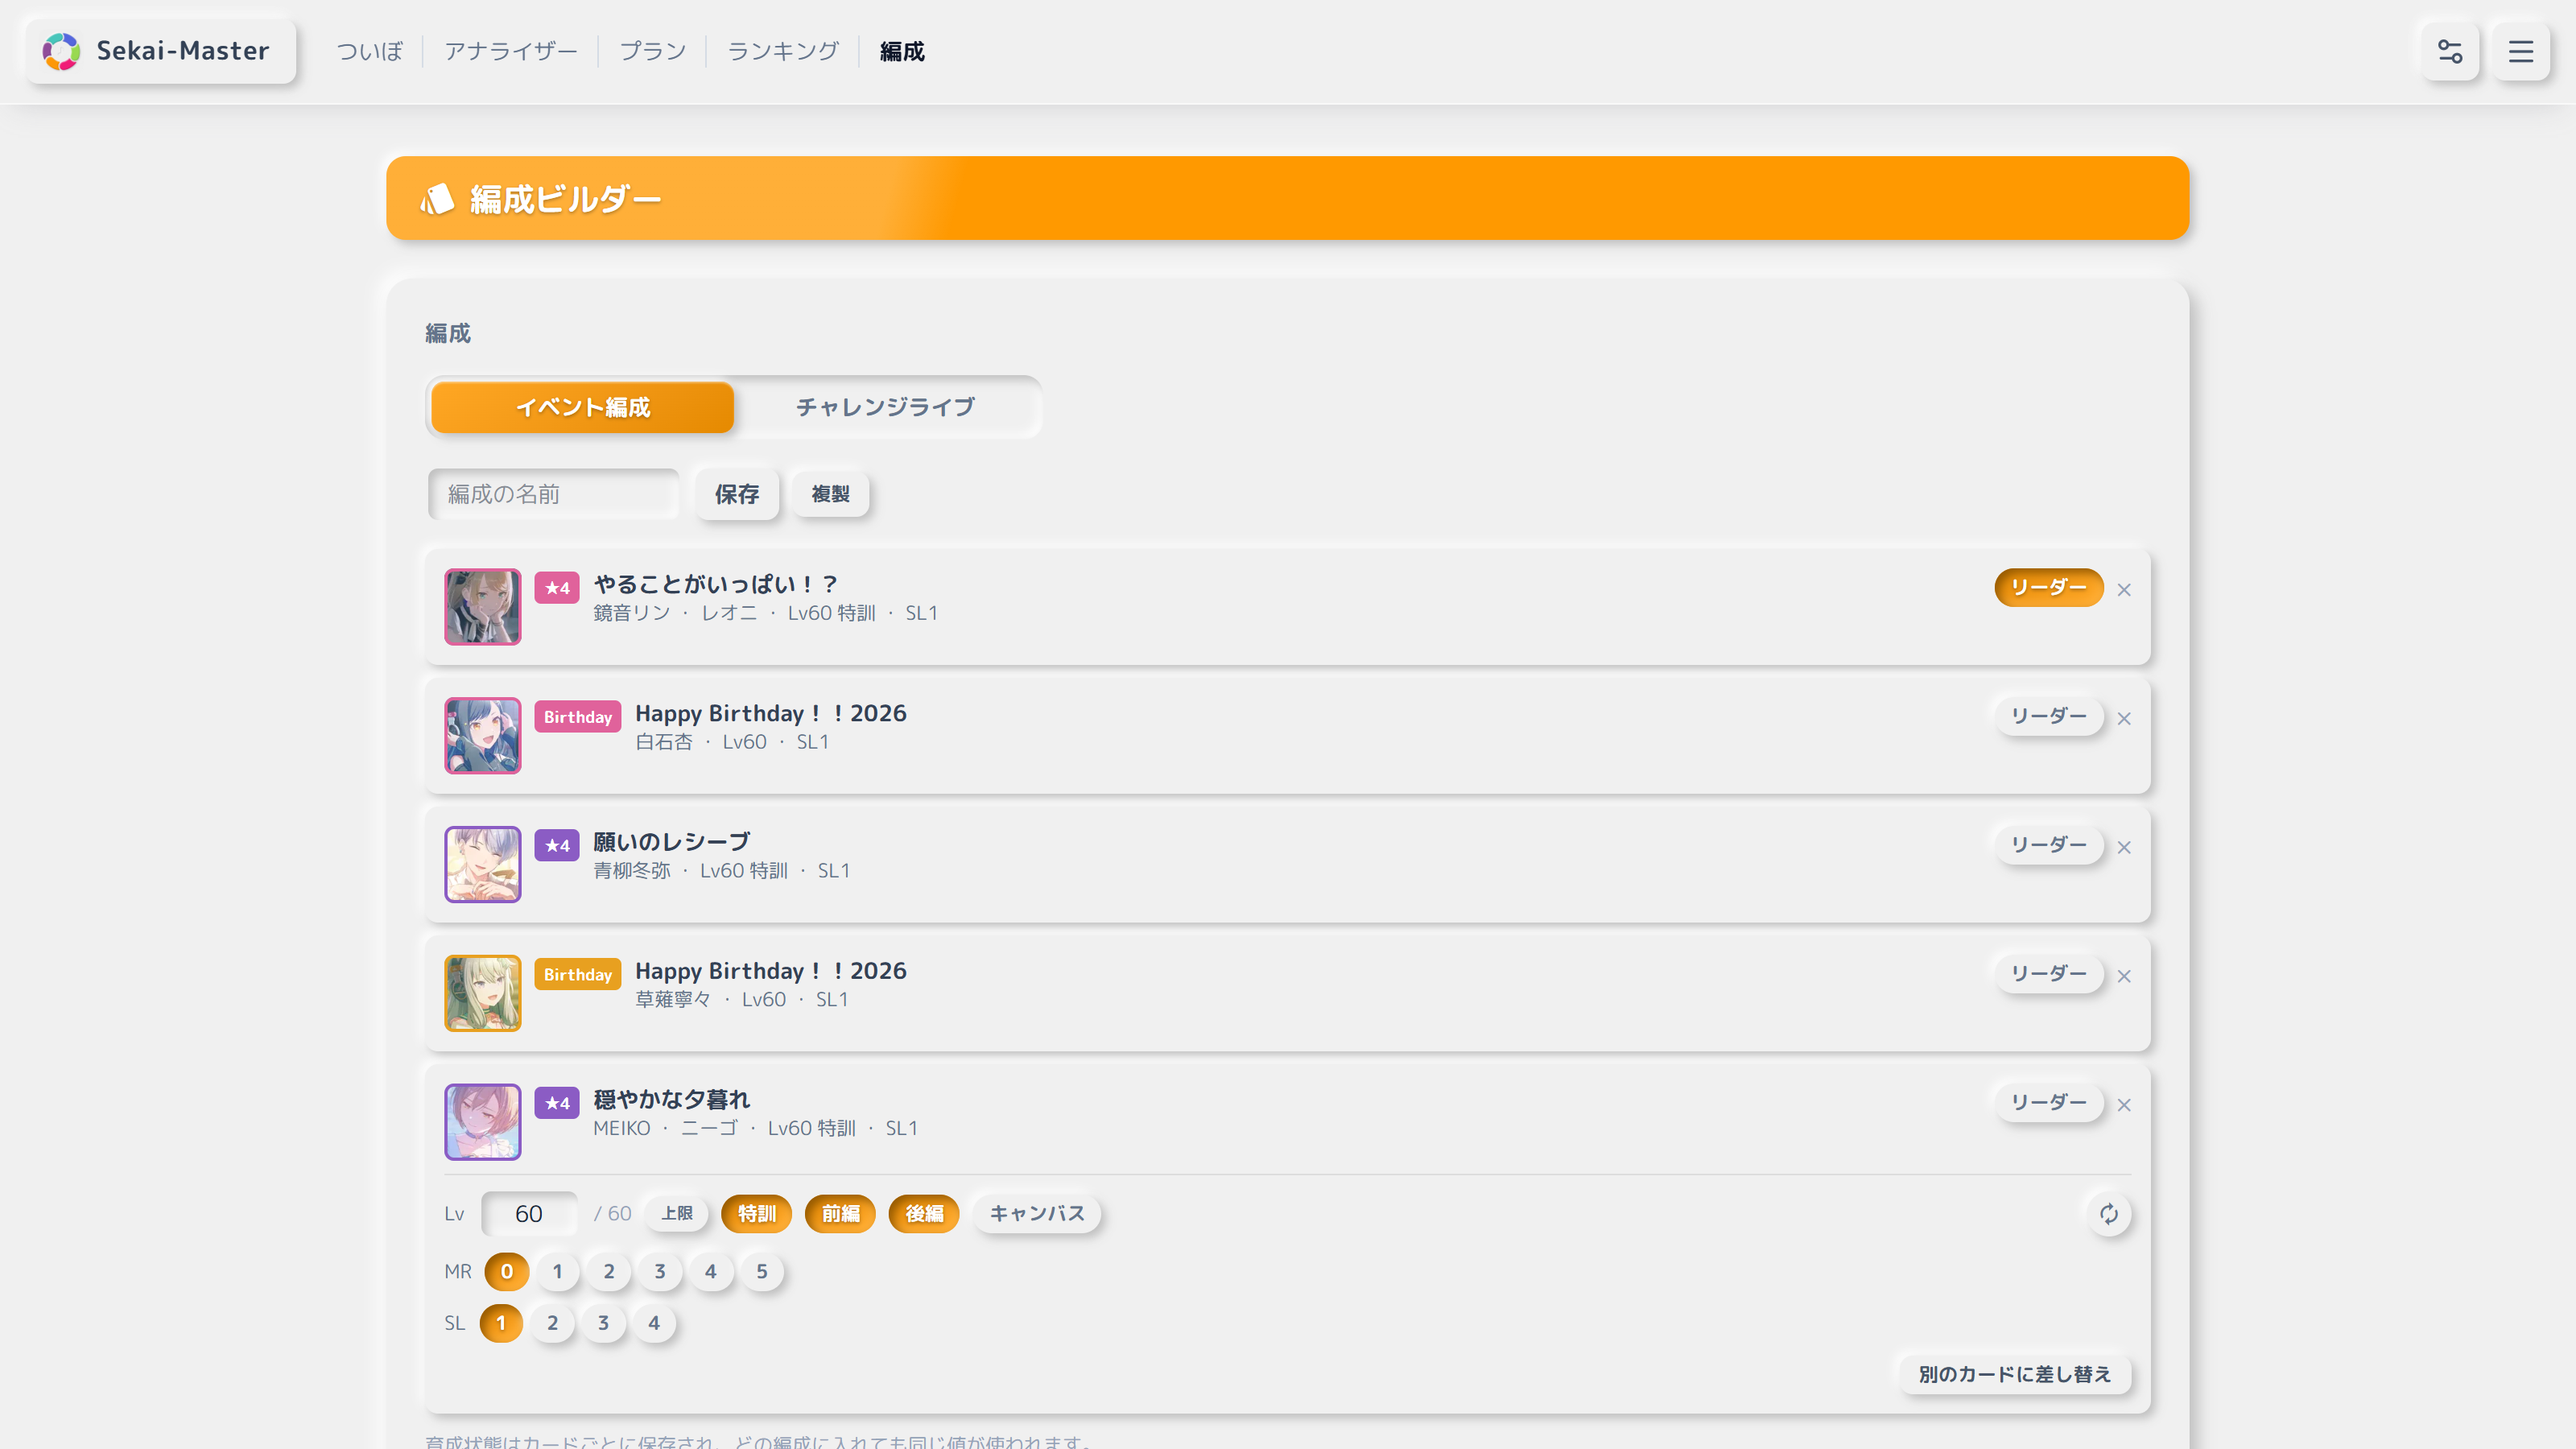
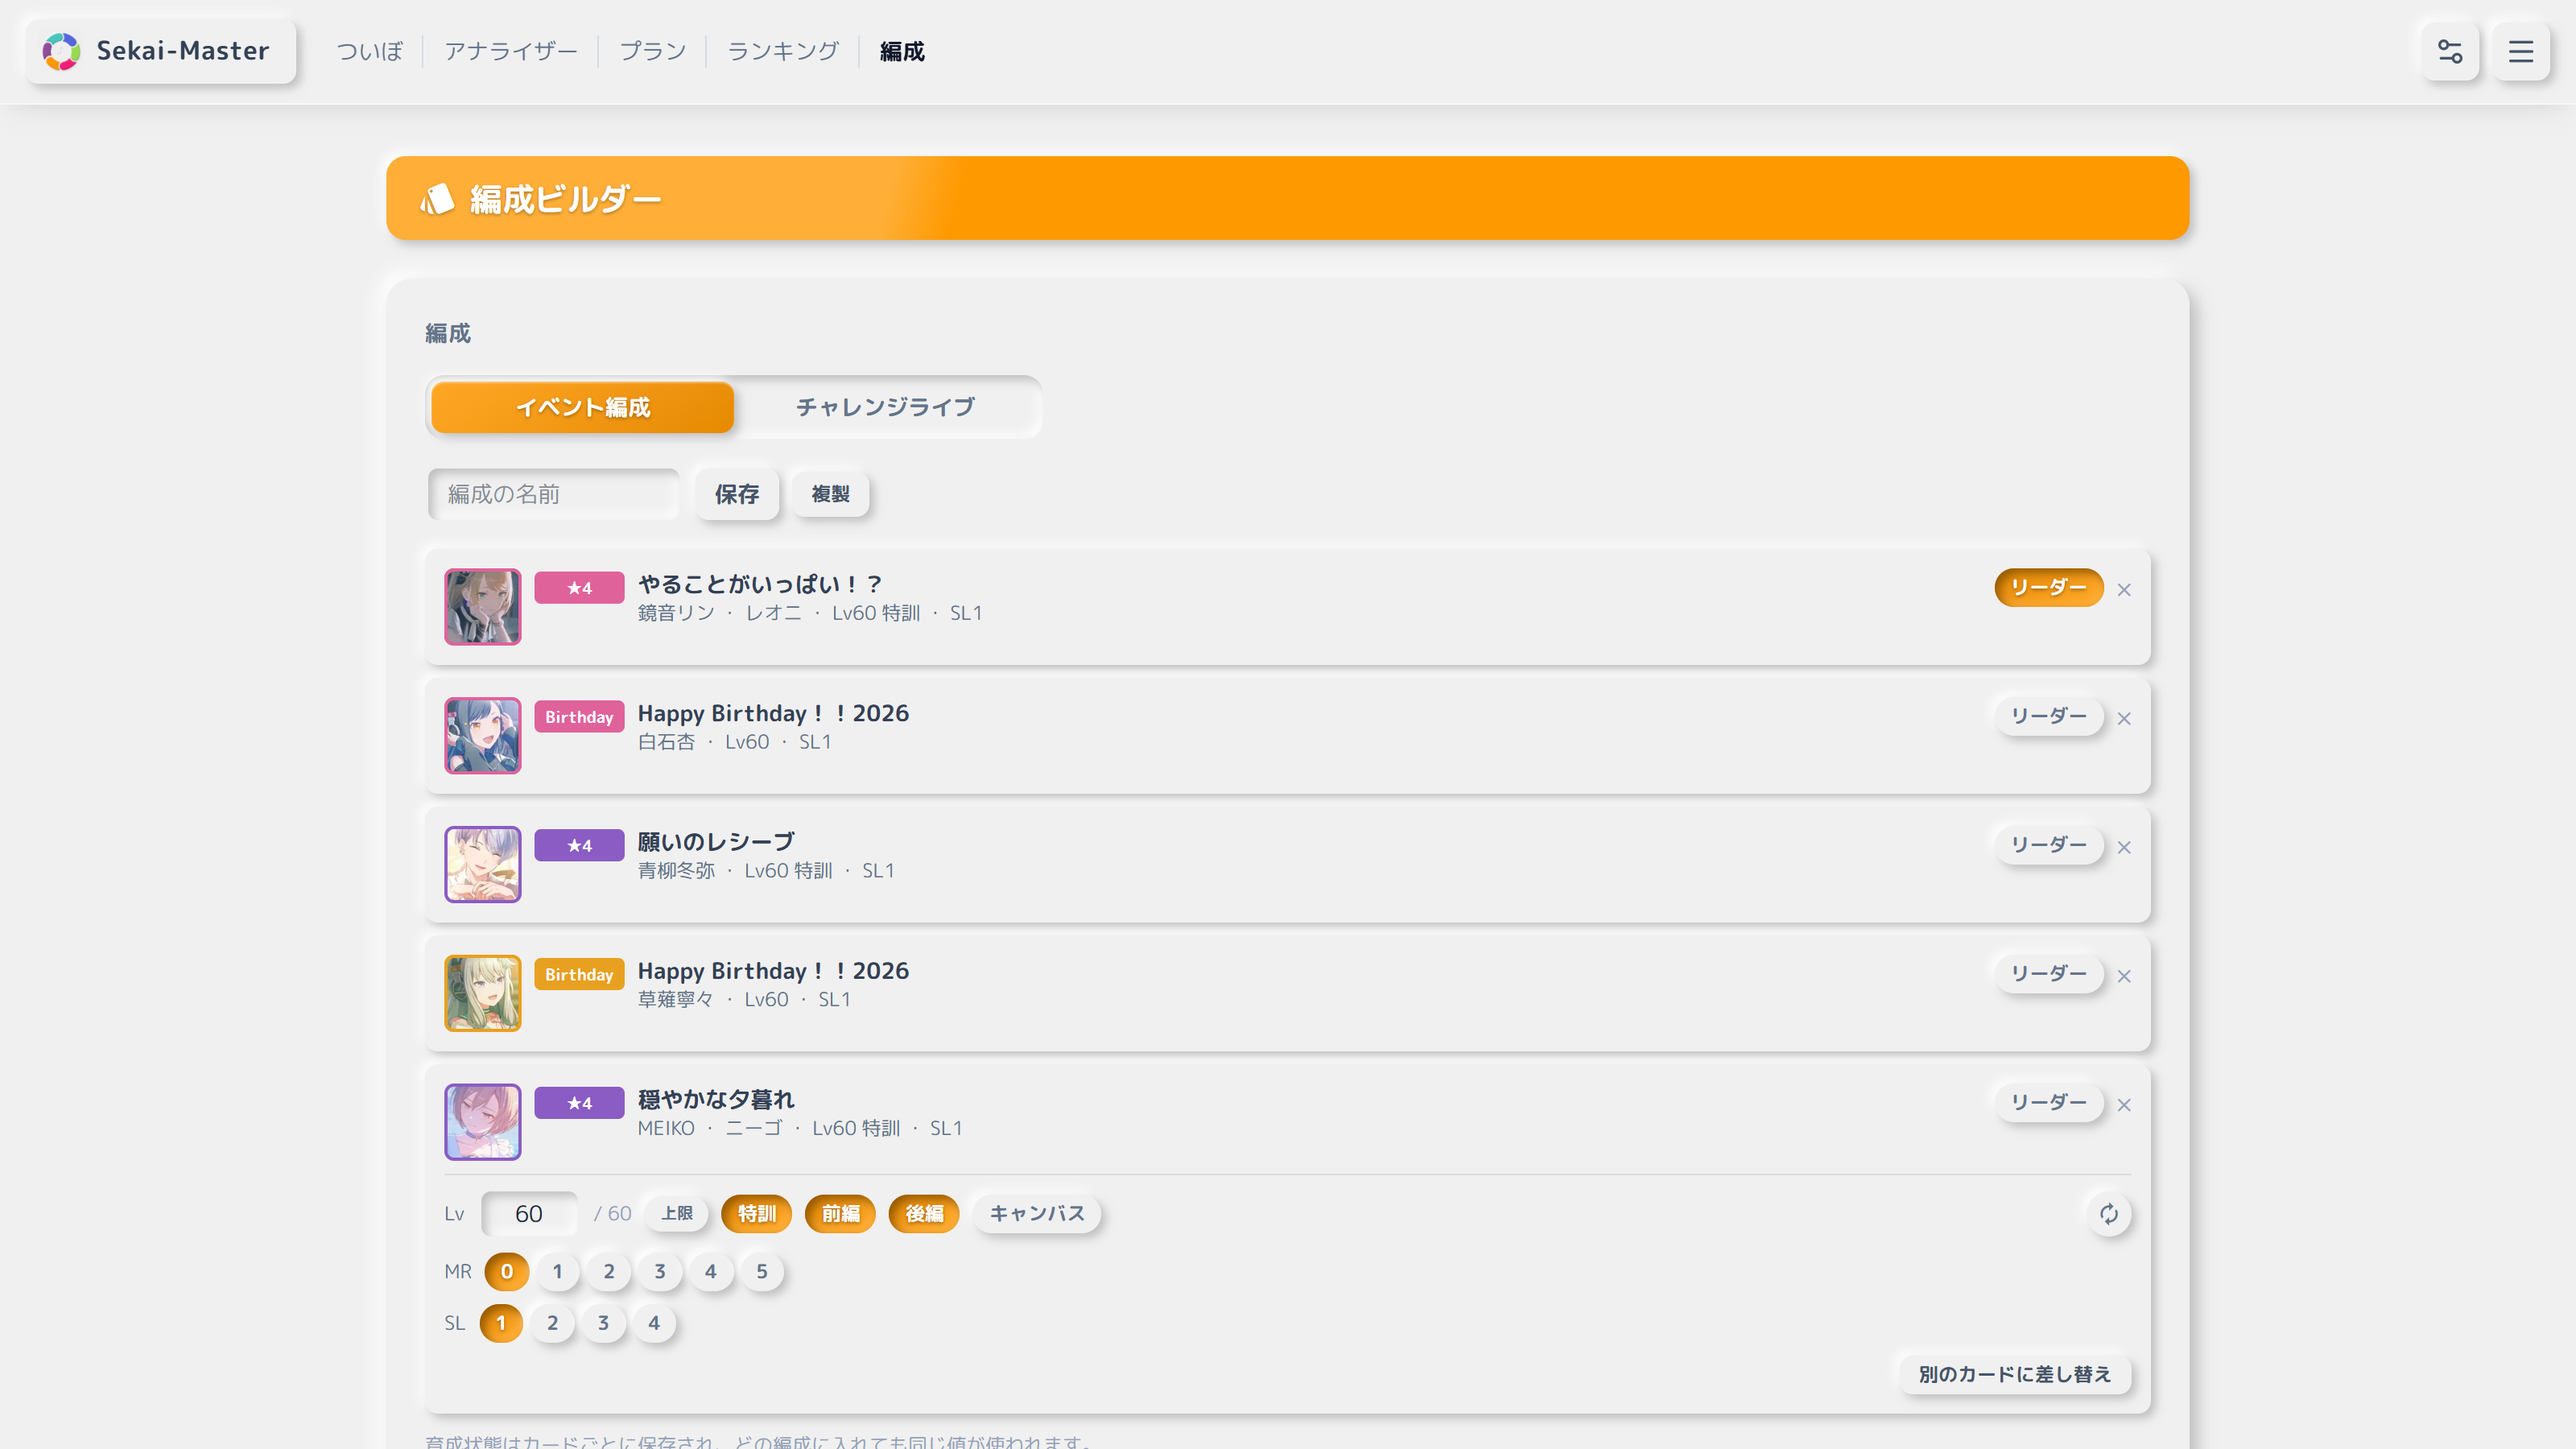
fix(deck): カード名の書き出し位置が行ごとにずれるのを直す
レアリティのバッジが中身の文字幅で伸縮していた。実測すると「★4」が
28.4px、「Birthday」が 54.5px で **26px** 違い、その差がそのまま隣の
カード名の開始位置のズレになる。5枠を縦に並べる編成ビルダーでは、
行ごとに頭が動いてガタついて見えていた（Nori 指摘）。

同じバッジをカード検索モーダルでも同じクラスで組んでいて、そちらにも
同じズレがあった。3箇所目で再発しないよう RarityBadge として部品にし、
最長ラベルに合わせた min-width を持たせる。

あわせて投稿用の画像を2枚追加（周回プラン・必要稼働時間）と、X 運用の
告知タイミングを更新。ガチャは種別に関係なく必ず12時開始で、その時点で
ボーナス対象が判明するため、編成の話はイベント開始ではなくガチャ開始に
当てる（直近8イベントで確認、Nori 指摘）。

diff --git a/src/pages/deck/DeckSlots.tsx b/src/pages/deck/DeckSlots.tsx
@@ -1,7 +1,8 @@
 import { NeuButton } from "../../components/ui/NeuButton";
 import { NeuInput } from "../../components/ui/NeuInput";
 import { cn } from "../../lib/utils";
-import { ATTR_COLOR, ATTR_LABEL, RARITY_LABEL, UNIT_SHORT, characterName } from "./lib/characters";
+import { UNIT_SHORT, characterName } from "./lib/characters";
+import { RarityBadge } from "./RarityBadge";
 import { applyTrained, isTrainable, levelCapOf, type CatalogCard } from "./lib/deckInputs";
 import type { CardState } from "./lib/deckStore";
 import { CardThumb } from "./CardThumb";
@@ -208,13 +209,9 @@ export function DeckSlots({
                     masterRank={state?.masterRank ?? 0}
                     size={48}
                   />
-                  <span
-                    className="mt-0.5 shrink-0 rounded px-1.5 py-0.5 text-[10px] font-bold text-white"
-                    style={{ backgroundColor: ATTR_COLOR[card.attr] ?? "#888" }}
-                    title={ATTR_LABEL[card.attr] ?? card.attr}
-                  >
-                    {RARITY_LABEL[card.rarity] ?? card.rarity}
-                  </span>
+                  {/* 幅は固定。★4 と Birthday でバッジの幅が違うと、
+                      5枠を縦に並べたときカード名の頭がガタつく（RarityBadge 参照）。 */}
+                  <RarityBadge attr={card.attr} rarity={card.rarity} className="mt-0.5" />
                   <button
                     type="button"
                     onClick={() => onToggleOpen(i)}

diff --git a/src/pages/deck/RarityBadge.tsx b/src/pages/deck/RarityBadge.tsx
@@ -1,0 +1,39 @@
+import { ATTR_COLOR, ATTR_LABEL, RARITY_LABEL } from "./lib/characters";
+import { cn } from "../../lib/utils";
+
+/**
+ * レアリティのバッジ（下地は属性色）。
+ *
+ * ★ **幅を固定する。** ラベルは「★4」が 28.4px、「Birthday」が 54.5px で
+ *   26px も違う。カードを縦に並べる場所（編成の5枠・カード検索の一覧）では、
+ *   この差がそのまま**カード名の開始位置のズレ**になり、行ごとにガタつく。
+ *   min-w は実測した最長ラベル（Birthday）に合わせてある。
+ *
+ * ★ ラベルを増やすとき（新しいレアリティ区分が来たとき）は、**幅が足りるか
+ *   測り直すこと**。溢れると今度は逆に長い行だけずれる。
+ *
+ * ★ 2箇所で同じ見た目を作っていたので部品にした。次に同じものが要るときは
+ *   コピーせずこれを使う。
+ */
+export function RarityBadge({
+  attr,
+  rarity,
+  className,
+}: {
+  attr: string;
+  rarity: string;
+  className?: string;
+}) {
+  return (
+    <span
+      className={cn(
+        "min-w-14 shrink-0 rounded px-1.5 py-0.5 text-center text-[10px] font-bold text-white",
+        className
+      )}
+      style={{ backgroundColor: ATTR_COLOR[attr] ?? "#888" }}
+      title={ATTR_LABEL[attr] ?? attr}
+    >
+      {RARITY_LABEL[rarity] ?? rarity}
+    </span>
+  );
+}

diff --git a/src/pages/deck/CardSearchModal.tsx b/src/pages/deck/CardSearchModal.tsx
@@ -14,6 +14,7 @@ import {
 } from "./lib/characters";
 import type { CatalogCard } from "./lib/deckInputs";
 import { CardThumb } from "./CardThumb";
+import { RarityBadge } from "./RarityBadge";
 
 /**
  * カード選択モーダル。
@@ -271,12 +272,7 @@ export function CardSearchModal({
                     )}
                   >
                     <CardThumb card={c} size={40} />
-                    <span
-                      className="shrink-0 rounded px-1.5 py-0.5 text-[10px] font-bold text-white"
-                      style={{ backgroundColor: ATTR_COLOR[c.attr] ?? "#888" }}
-                    >
-                      {RARITY_LABEL[c.rarity] ?? c.rarity}
-                    </span>
+                    <RarityBadge attr={c.attr} rarity={c.rarity} />
                     <span className="min-w-0 flex-1">
                       <span className="block truncate text-sm text-slate-700">{c.name}</span>
                       <span className="block truncate text-xs text-slate-500">

diff --git a/CHANGELOG.md b/CHANGELOG.md
@@ -14,6 +14,12 @@ Sekai-Master の変更履歴です。書き方の規則とリリース手順は 
     その版が丸ごとページから消える（テストで検出される）。
 -->
 
+## [1.9.1] - 2026-08-04
+
+### 修正
+
+- 編成ビルダーとカード検索で、カード名の書き出し位置が行ごとにずれてガタついていたのを直しました。レアリティのバッジが「★4」と「Birthday」で幅が違うのが原因でした
+
 ## [1.9.0] - 2026-08-04
 
 利用規約・プライバシーポリシー・この更新履歴ページを追加しました。あわせてバージョン表記を始めています。
